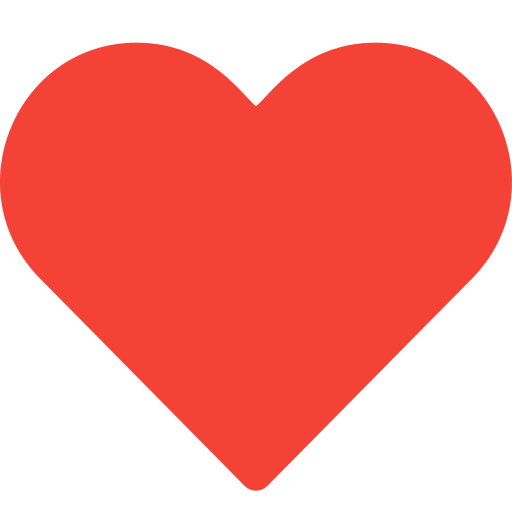
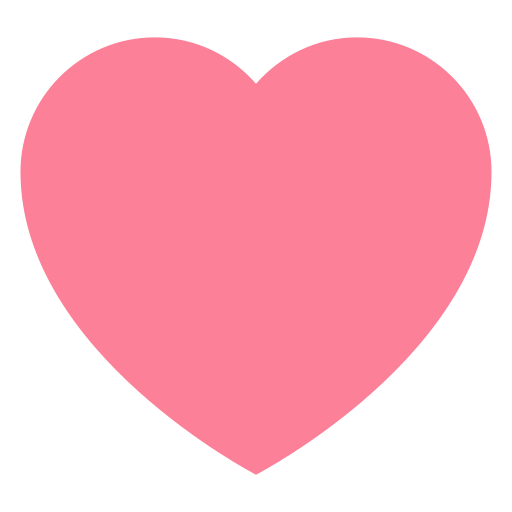
add favorite function

diff --git a/src/PropertyList.js b/src/PropertyList.js
@@ -7,7 +7,7 @@ import Like from "./images/like.png";
 import Heart from "./images/heart.png";
 
 export const PropertyList = ({ selectedMarker, handleMaps, handleOpen, emblaRef, GMaps, propertyData, handleUpatePositions }) => {
-
+    
     const [showNotepad, setShowNotepad] = useState(false);
     const [note, setNote] = useState('');
 
@@ -71,20 +71,20 @@ export const PropertyList = ({ selectedMarker, handleMaps, handleOpen, emblaRef,
 
     const handleToggleFavorite = async () => {
         const jsonBlobUrl = process.env.REACT_APP_JSON_URL;
-    
+
         try {
             const index = propertyData.findIndex(property => property.id === clonedSelectedMarker.id);
-    
+
             if (index !== -1) {
 
                 let dataToSubmit = [...propertyData];
-    
+
                 // Invert the isFavorited property of the selected marker directly
                 dataToSubmit[index] = {
                     ...dataToSubmit[index],
                     isFavorited: !dataToSubmit[index].isFavorited
                 };
-    
+
                 const response = await fetch(jsonBlobUrl, {
                     method: 'PUT',
                     headers: {
@@ -94,13 +94,12 @@ export const PropertyList = ({ selectedMarker, handleMaps, handleOpen, emblaRef,
                     },
                     body: JSON.stringify(dataToSubmit)
                 });
-    
+
                 if (response.ok) {
                     console.log('Favorite status updated successfully to jsonblob');
-    
-                    // Reflect the change locally
-                    clonedSelectedMarker.isFavorited = !clonedSelectedMarker.isFavorited;
-                    handleUpatePositions(dataToSubmit);
+
+                    const data = await response.json();
+                    handleUpatePositions(data.record);
                 } else {
                     console.error('Failed to update favorite status to jsonblob');
                 }
@@ -111,17 +110,12 @@ export const PropertyList = ({ selectedMarker, handleMaps, handleOpen, emblaRef,
             console.error('Error while toggling favorite status:', error);
         }
     };
-    
+
 
 
     return (
         <>
             <div className='property-details'>
-                <div className="like-container">
-                    <button onClick={handleToggleFavorite} className="like-button">
-                        <img className="like-image" src={clonedSelectedMarker.isFavorited ? Heart : Like} alt="like" />
-                    </button>
-                </div>
                 <div className="address-container">
                     <p className='address'>{clonedSelectedMarker.name}</p>
                     <p className='city-state-zip'>{clonedSelectedMarker.location.city}, {clonedSelectedMarker.location.state} {clonedSelectedMarker.location.zip}</p>
@@ -153,6 +147,9 @@ export const PropertyList = ({ selectedMarker, handleMaps, handleOpen, emblaRef,
                         View on Maps
                     </button>
                     <button className='add-notes-button' onClick={() => setShowNotepad(true)}><BiMessageRoundedAdd className="nav-icon-svg" />Add Notes</button>
+                    <button onClick={handleToggleFavorite} className="like-button">
+                        <img className="like-image" src={clonedSelectedMarker.isFavorited ? Heart : Like} alt="like" /> Favorite
+                    </button>
                 </div>
             </div>
             {

diff --git a/src/Map.js b/src/Map.js
@@ -11,6 +11,7 @@ import GMaps from "./images/google_maps.png";
 import GPS from "./images/gsp.png";
 import BlueMarker from "./images/marker_green.png";
 import RedMarker from "./images/marker_pink.png";
+import Heart from "./images/heart_alt1.png";
 
 const containerStyle = {
     width: '100%',
@@ -380,13 +381,6 @@ function Map({ googleApiKey }) {
     const [emblaRef] = useEmblaCarousel();
     const [isDarkMode, setIsDarkMode] = useState(false);
 
-    useEffect(() => {
-        const savedSetting = localStorage.getItem('darkmode');
-        if (savedSetting !== null) {
-            setIsDarkMode(JSON.parse(savedSetting));
-        }
-    }, []);
-
 
     const toggleDarkMode = () => {
         setIsDarkMode(prevIsDarkMode => !prevIsDarkMode);
@@ -425,6 +419,10 @@ function Map({ googleApiKey }) {
 
 
     useEffect(() => {
+        const savedSetting = localStorage.getItem('darkmode');
+        if (savedSetting !== null) {
+            setIsDarkMode(JSON.parse(savedSetting));
+        }
         getData();
         fetchCurrentLocation();
     }, []);
@@ -444,6 +442,13 @@ function Map({ googleApiKey }) {
             setZoom(10);
         }
     }, [selectedCities]);
+
+    useEffect(() => {
+        const updatedMarker = position.find(marker => marker.id === selectedMarker?.id)
+        if (updatedMarker) {
+            setSelectedMarker(updatedMarker);
+        }
+    }, [position]);
 
     const fetchCurrentLocation = () => {
         if (navigator.geolocation) {
@@ -568,8 +573,8 @@ function Map({ googleApiKey }) {
                                 key={index}
                                 position={pos.location}
                                 icon={{
-                                    url: selectedMarker?.id === pos.id ? RedMarker : BlueMarker,
-                                    scaledSize: { width: 52, height: 52 },
+                                    url: pos.isFavorited ? Heart : selectedMarker?.id === pos.id ? RedMarker : BlueMarker,
+                                    scaledSize: pos.isFavorited ? {width: 45, height: 45} : { width: 50, height: 50 },
                                 }}
                             />
                         ))}

diff --git a/src/index.css b/src/index.css
@@ -220,27 +220,6 @@ span.city-tag.selected {
   border-radius: 20px;
 }
 
-.like-container {
-  position: absolute;
-  top: 10px;
-  right: 10px;
-  z-index: 2;
-}
-
-.like-button {
-  width: 50px;
-  height: 50px;
-  background: transparent;
-  border: none;
-  filter: invert(100%);
-  opacity: 0.7;
-  cursor: pointer;
-}
-
-.like-image {
-  width: 100%;
-}
-
 .address-container {
   display: flex;
   flex-direction: column;
@@ -328,6 +307,17 @@ span.city-tag.selected {
   display: flex;
   align-items: center;
   cursor: pointer;
+  flex: 0 0 25%;
+}
+
+.like-button {
+  display: flex;
+  gap: 10px;
+  align-items: center;
+}
+
+.like-image {
+  width: 28%;
 }
 
 .view-on-google {
